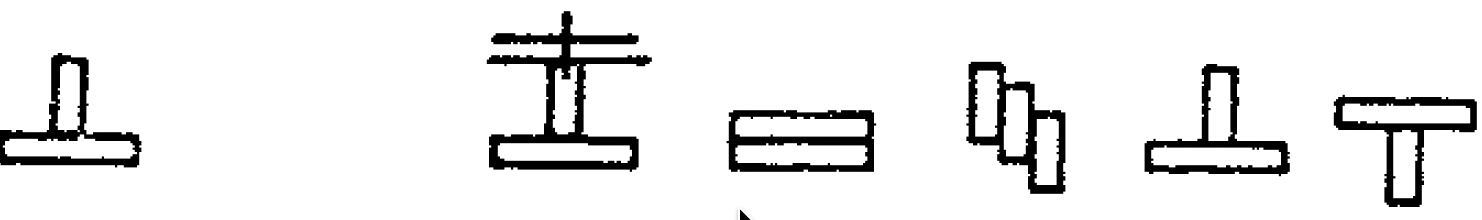
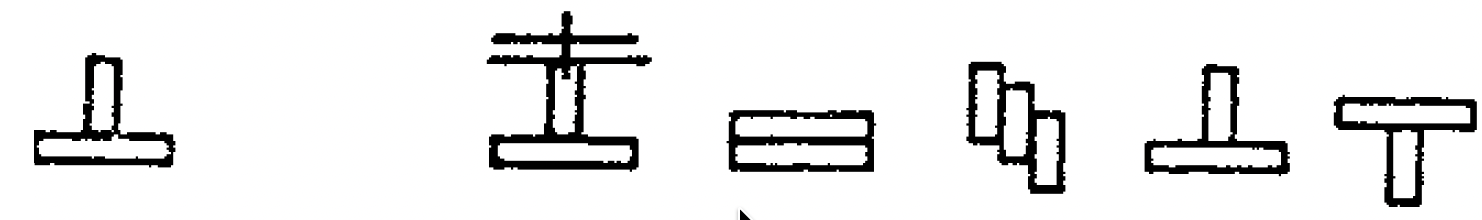
debug panel fix

Changed region(s): [[0.0, 0.2455, 0.1242, 0.7636]]

diff --git a/css/experiment.css b/css/experiment.css
@@ -8,6 +8,23 @@ body {
   width: 100%;
   margin: 0 auto;
 }
+/* Override jsPsych's flex defaults — flex items default to min-width: auto,
+   which lets a long unbroken string (e.g. our JSON.stringify'd debug-panel
+   content, no spaces between tokens) force the whole row wider than the
+   viewport in Safari even with overflow-wrap set. */
+.jspsych-content-wrapper,
+.jspsych-content {
+  min-width: 0;
+}
+/* Positioning context for .debug-panel (below). .jspsych-content-wrapper
+   centers itself vertically via margin: auto against the leftover space in
+   body's flex column — if the panel were in-flow, growing it would shrink
+   that leftover space and drag the centered text/button upward with it.
+   Anchoring the panel via position: absolute keeps it fully outside that
+   height calculation, so it can never move anything above it. */
+.jspsych-content {
+  position: relative;
+}
 .box {
   max-width: 51.25rem;
   margin: auto;
@@ -95,11 +112,28 @@ body {
 /* ---- Debug panel (dev-only trial info on prime/feedback screens) ---- */
 /* Toggle visibility with SHOW_DEBUG_INFO in js/state.js. */
 .debug-panel {
-  position: fixed;
+  /* Placed via `prompt` (see prime_screen.js etc.), so it's already last in
+     the DOM, after the button. position: absolute + top: 100% then anchors
+     it right below .jspsych-content's real (panel-excluded) height, so it
+     renders after the button without being part of the box that gets
+     vertically centered — see the .jspsych-content comment above.
+     This outer box is just a positioning/spacing shell — see .debug-panel-inner
+     for the visible box. A scroll container's scrollHeight is defined by its
+     descendants' bottom BORDER edges, never their margins, so trailing space
+     after the panel has to be real padding on whichever box defines that
+     bottom-most edge (this one) — margin here (or padding on body) is silently
+     excluded from the scrollable area and never becomes reachable/visible. */
+  position: absolute;
+  top: 100%;
   left: 50%;
-  bottom: 1.75rem;
   transform: translateX(-50%);
   width: min(90%, 48.75rem);
+  max-width: 100%;
+  min-width: 0;
+  margin-top: 1.75rem;
+  padding-bottom: 1.75rem;
+}
+.debug-panel-inner {
   padding: 0.875rem 1.125rem;
   background: #f0f0f0;
   border-radius: 0.625rem;
@@ -108,14 +142,15 @@ body {
   font-size: 0.8rem;
   line-height: 1.7;
   color: #333;
-  z-index: -10;
-  overflow-wrap: break-word;
+  overflow-wrap: anywhere;
+  word-break: break-word;
   max-height: 40vh;
   overflow-y: auto;
 }
 
 .jspsych-btn {
   font-size: 1.2rem;
+  margin-bottom: 5rem;
 }
 
 /* Pale/subtle look for a jsPsych button-response button once jsPsych disables it */

diff --git a/js/screens/feedback_screen.js b/js/screens/feedback_screen.js
@@ -22,7 +22,18 @@ export function createFeedbackScreen() {
       // variant cleared the gates (honestFallback) — both cases show label only.
       const d = trial.currentDisplayed;
       const framedText = d && !d.honestFallback ? d.framedText : null;
-      const debugPanel = renderDebugPanel([
+      return `
+        <div id="feedback-screen">
+          <p class="stage-label">Your response has been recorded.</p>
+          ${framedText ? `<p class="stage-text">${framedText}</p>` : ""}
+        </div>`;
+    },
+    choices: ["Next task"],
+    // Rendered via `prompt`, not inline in `stimulus` — see prime_screen.js
+    // for why (jsPsych appends prompt HTML after the button group).
+    prompt: function () {
+      const d = trial.currentDisplayed;
+      return renderDebugPanel([
         [
           ["BankId", trial.currentSelection?.bankId ?? ""],
           ["domainUsed", trial.currentSelection?.domainUsed ?? ""],
@@ -43,14 +54,7 @@ export function createFeedbackScreen() {
           ["total", trial.currentRealPerf?.total ?? ""],
         ],
       ]);
-      return `
-        <div id="feedback-screen">
-          <p class="stage-label">Your response has been recorded.</p>
-          ${framedText ? `<p class="stage-text">${framedText}</p>` : ""}
-          ${debugPanel}
-        </div>`;
     },
-    choices: ["Next task"],
     extensions: SKIP_WEBGAZER
       ? []
       : [

diff --git a/js/screens/prime_screen.js b/js/screens/prime_screen.js
@@ -22,8 +22,19 @@ export function createPrimeScreen() {
         (p) => p.id === trial.currentSelection.primeId,
       );
       const primeText = primeObj?.text || "";
+      return `
+        <div id="prime-screen">
+          <p class="stage-label">Next task</p>
+          ${primeText ? `<p class="stage-text">${primeText}</p>` : ""}
+        </div>`;
+    },
+    choices: ["Start task"],
+    // Rendered via `prompt`, not inline in `stimulus` — jsPsych appends prompt
+    // HTML after the button group, so the panel lands after it in normal flow
+    // without ever affecting the position of the text/button above it.
+    prompt: function () {
       const tieBreak = trial.currentSelection?.reason?.tieBreak;
-      const debugPanel = renderDebugPanel([
+      return renderDebugPanel([
         [
           ["BankId", trial.currentSelection?.bankId ?? ""],
           ["domainUsed", trial.currentSelection?.domainUsed ?? ""],
@@ -45,14 +56,7 @@ export function createPrimeScreen() {
           ],
         ],
       ]);
-      return `
-        <div id="prime-screen">
-          <p class="stage-label">Next task</p>
-          ${primeText ? `<p class="stage-text">${primeText}</p>` : ""}
-          ${debugPanel}
-        </div>`;
     },
-    choices: ["Start task"],
     // No webgazer extension or mouse/click tracking here — nothing is logged
     // during the prime screen.
     on_load: function () {

diff --git a/js/screens/derived_debug_screen.js b/js/screens/derived_debug_screen.js
@@ -15,8 +15,17 @@ export function createDerivedDebugScreen() {
   const derivedDebugNode = {
     type: jsPsychHtmlButtonResponse,
     stimulus: function () {
+      return `
+        <div id="derived-debug-screen">
+          <p class="stage-label">[Dev only] Derived scoring for this trial.</p>
+        </div>`;
+    },
+    choices: ["Next task"],
+    // Rendered via `prompt`, not inline in `stimulus` — see prime_screen.js
+    // for why (jsPsych appends prompt HTML after the button group).
+    prompt: function () {
       const d = trial.currentDerived || {};
-      const debugPanel = renderDebugPanel([
+      return renderDebugPanel([
         [
           ["feltDominant", d.feltDominant ?? ""],
           ["confirmed", d.confirmed ?? ""],
@@ -26,13 +35,7 @@ export function createDerivedDebugScreen() {
         ],
         [["derived", J(d)]],
       ]);
-      return `
-        <div id="derived-debug-screen">
-          <p class="stage-label">[Dev only] Derived scoring for this trial.</p>
-          ${debugPanel}
-        </div>`;
     },
-    choices: ["Next task"],
     data: function () {
       return { phase: "derived_debug" };
     },

diff --git a/js/screens/screen_helpers.js b/js/screens/screen_helpers.js
@@ -7,7 +7,7 @@ import { SHOW_DEBUG_INFO } from "../state.js";
 
 // How long the prime/feedback "Continue"-style button stays hidden before
 // appearing, forcing participants to spend at least this long on the screen.
-export const CONTINUE_DELAY_MS = 10000; // display for 10 sec
+export const CONTINUE_DELAY_MS = 1000; // display for 10 sec
 
 // Hides the jsPsych button-response button and shows a "Preparing for next
 // task..." message in its place (same spot in the layout) for
@@ -59,5 +59,5 @@ export function renderDebugPanel(rows) {
       .map(([label, value]) => `<strong>${label}:</strong> ${value}`)
       .join(", "),
   );
-  return `<div class="debug-panel">${lines.map((l) => `<div>${l}</div>`).join("")}</div>`;
+  return `<div class="debug-panel"><div class="debug-panel-inner">${lines.map((l) => `<div>${l}</div>`).join("")}</div></div>`;
 }

diff --git a/controller.js b/controller.js
@@ -638,6 +638,7 @@ function chooseVariant(c, s) {
 /* ---- Seeded PRNG — lazily seeded per-participant so tie-breaks (and any other
  * randomness) are reproducible on replay from the same participantId + call
  * order, matching the file-header determinism guarantee. Mutates s.rngState. */
+// Turn the participant ID into a numeric seed
 function hashSeed(str) {
   let h = 1779033703 ^ str.length;
   for (let i = 0; i < str.length; i++) {
@@ -646,6 +647,7 @@ function hashSeed(str) {
   }
   return (h ^ (h >>> 16)) >>> 0 || 1; // avoid a 0 seed (mulberry32 degenerates)
 }
+// Generate the next reproducible random value.
 function nextRandom(s) {
   if (s.rngState == null) s.rngState = hashSeed(String(s.participantId ?? "seed"));
   let t = (s.rngState = (s.rngState + 0x6d2b79f5) | 0);
@@ -653,6 +655,7 @@ function nextRandom(s) {
   t ^= t + Math.imul(t ^ (t >>> 7), t | 61);
   return ((t ^ (t >>> 14)) >>> 0) / 4294967296;
 }
+// Use value to select one tied candidate and record debug information.
 function seededTieBreak(tied, s) {
   const rngValue = nextRandom(s);
   const chosenIndex = Math.floor(rngValue * tied.length);

diff --git a/js/state.js b/js/state.js
@@ -3,7 +3,7 @@ export const SKIP_WEBGAZER = true;
 
 /* DEV TOGGLE: set false to hide the trial-info debug panel on prime/feedback
    screens before running real participants. */
-export const SHOW_DEBUG_INFO = true;
+export const SHOW_DEBUG_INFO = false;
 
 /* Session-level state — persists across trials */
 export const session = {